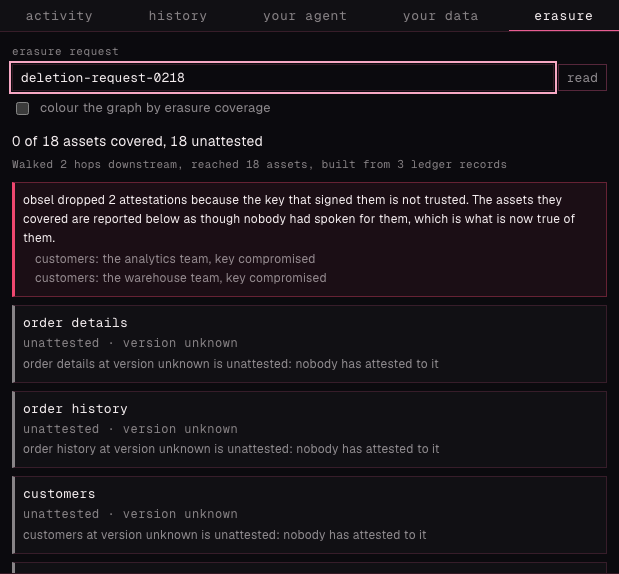
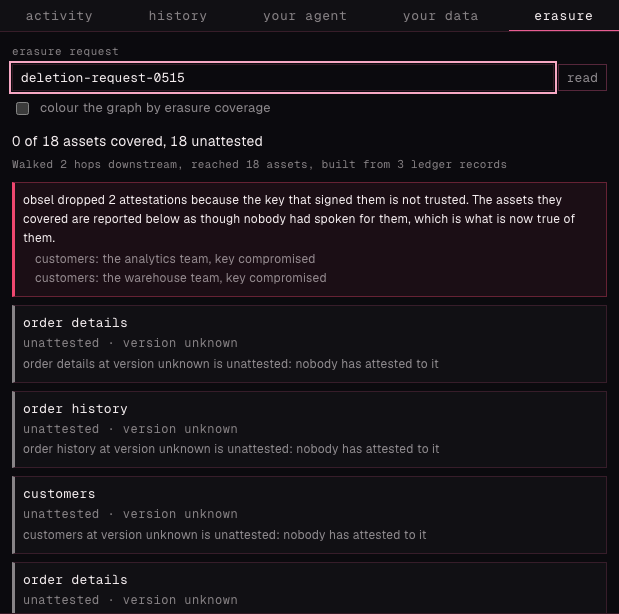
Point the README at the shipped v13 cut
The public video is now https://youtu.be/LhOvqAJ96Zw: 2:59.9, 3840x2160
at 25 fps, measured off the uploaded file. The erasure gallery pair are
now panel crops from the 2026-08-09 take the film uses, cut by that
take's own recorded panel box, and the compromise line carries that
take's measured 3.8 s.

Changed region(s): [[0.0, 0.0, 1.0, 1.0]]

diff --git a/README.md b/README.md
@@ -127,7 +127,7 @@ Codex CLI. Not mockups, and not assembled from separate sessions.
 
 ### Recordings
 
-The full three-minute demo, [on YouTube](https://youtu.be/qQNA59VADNc), is cut from recordings of
+The full three-minute demo, [on YouTube](https://youtu.be/LhOvqAJ96Zw), is cut from recordings of
 real runs. It follows the forty-agent run, the mid-swarm change and the repair end to end, then
 closes on a real erasure request opened against a real catalog. Its report on camera reads 2 of 18
 assets covered and 16 unattested, and then both signing keys are reported compromised and the same
@@ -151,7 +151,7 @@ through, from that same recording on 2026-08-09.
 |                                                                                   The coverage report                                                                                    |                                                                                                  After the keys are reported compromised                                                                                                   |
 | :--------------------------------------------------------------------------------------------------------------------------------------------------------------------------------------: | :----------------------------------------------------------------------------------------------------------------------------------------------------------------------------------------------------------------------------------------: |
 | ![The erasure panel reading 2 of 18 assets covered, 16 unattested, with one row attested absent over version rebuild-2026-07-31 by the analytics team.](docs/images/erasure-covered.png) | ![The same panel reading 0 of 18 assets covered, 18 unattested, above a callout saying obsel dropped 2 attestations because the key that signed them is not trusted, naming each asset and attestor.](docs/images/erasure-compromised.png) |
-|                                                                     2 of 18 covered, each by a different team's key.                                                                     |                                                                                      0 of 18, 4.0 s later. No asset was written and no version moved.                                                                                      |
+|                                                                     2 of 18 covered, each by a different team's key.                                                                     |                                                                                      0 of 18, 3.8 s later. No asset was written and no version moved.                                                                                      |
 
 "Identical" is the fingerprint's word, not the file system's. Rows are sorted before hashing, and
 any column the task registered as volatile is left out. Two tables that differ only in row order, or
@@ -402,8 +402,8 @@ The full record of what has been measured, and what has not, is in
   two observations each.
 - The graph has been checked in a real browser on two pipeline shapes, four tasks and forty, plus
   a joined fifth agent in the unit suite. Nothing between or beyond those.
-- The submission video is cut, rendered and [on YouTube](https://youtu.be/qQNA59VADNc) (2:59.6,
-  1920x1080 at 25 fps), made from recordings of real runs against a real DataHub. It has no
+- The submission video is cut, rendered and [on YouTube](https://youtu.be/LhOvqAJ96Zw) (2:59.9,
+  3840x2160 at 25 fps), made from recordings of real runs against a real DataHub. It has no
   narration, by choice, and its production project is not committed here.
 - **Bringing your own data is half on the page.** Declaring tasks is a form, driven against a real
   DataHub on 2026-07-26. Reporting a file is not. obsel takes the fingerprint from rows itself, and
